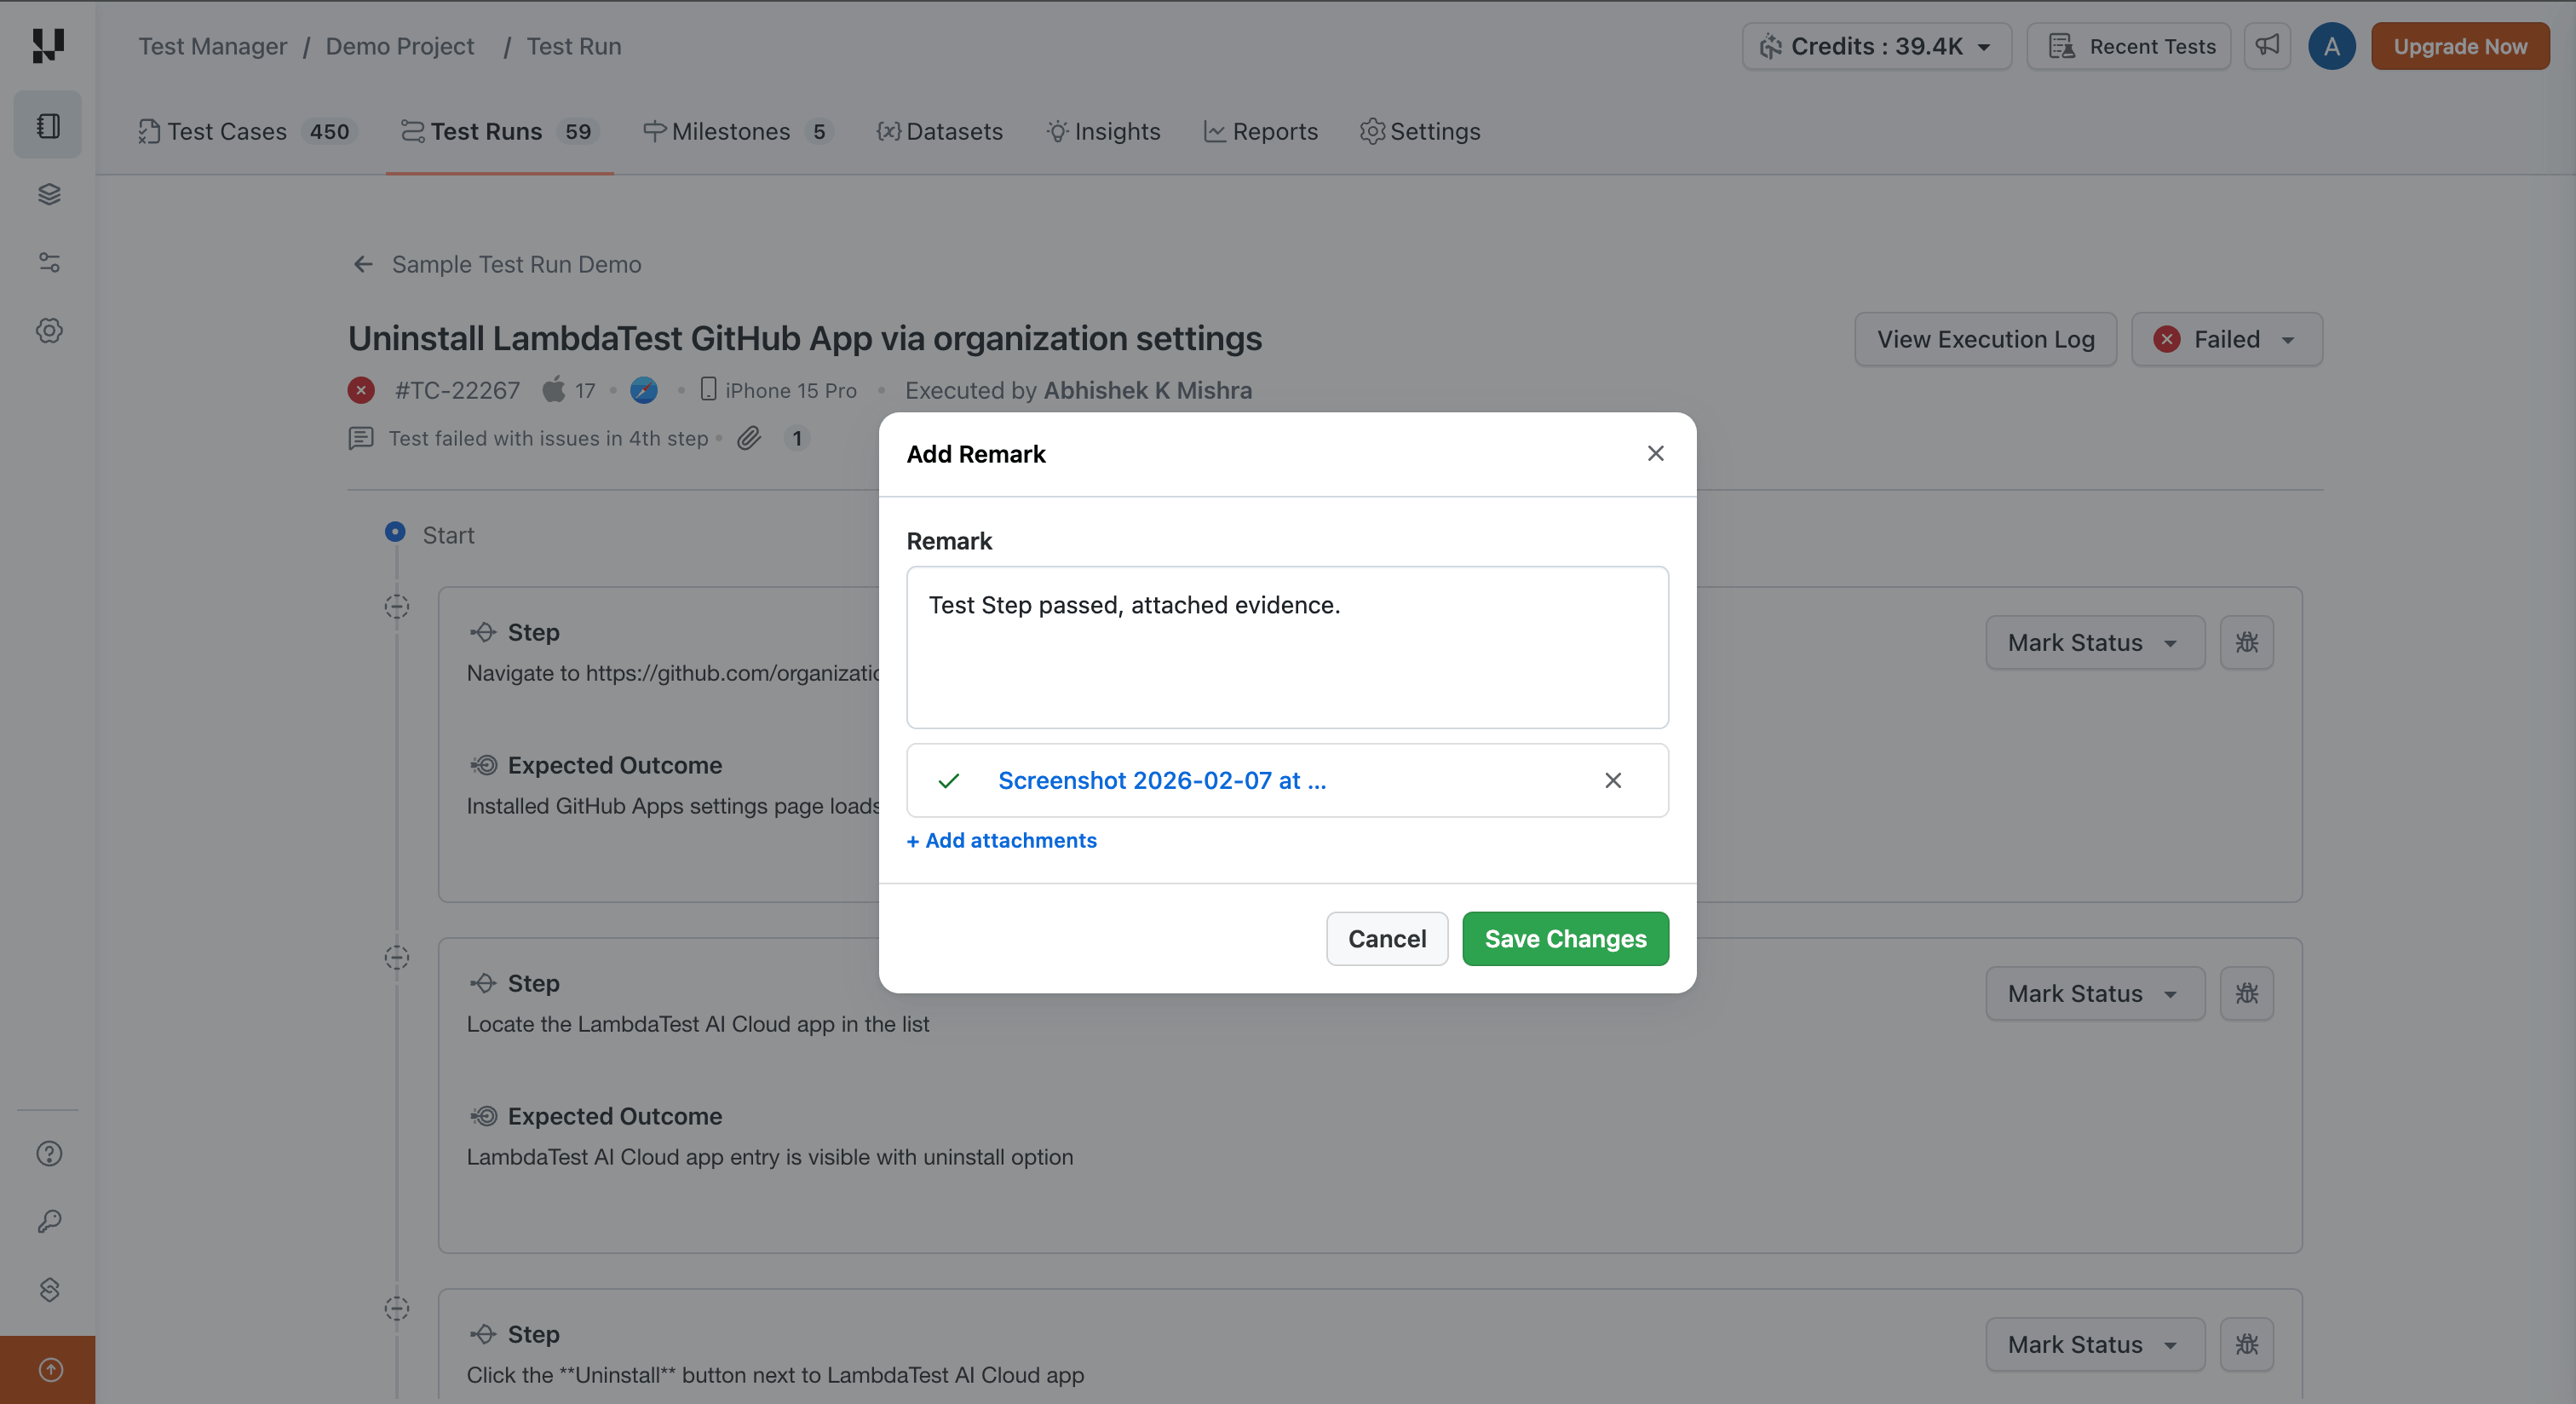
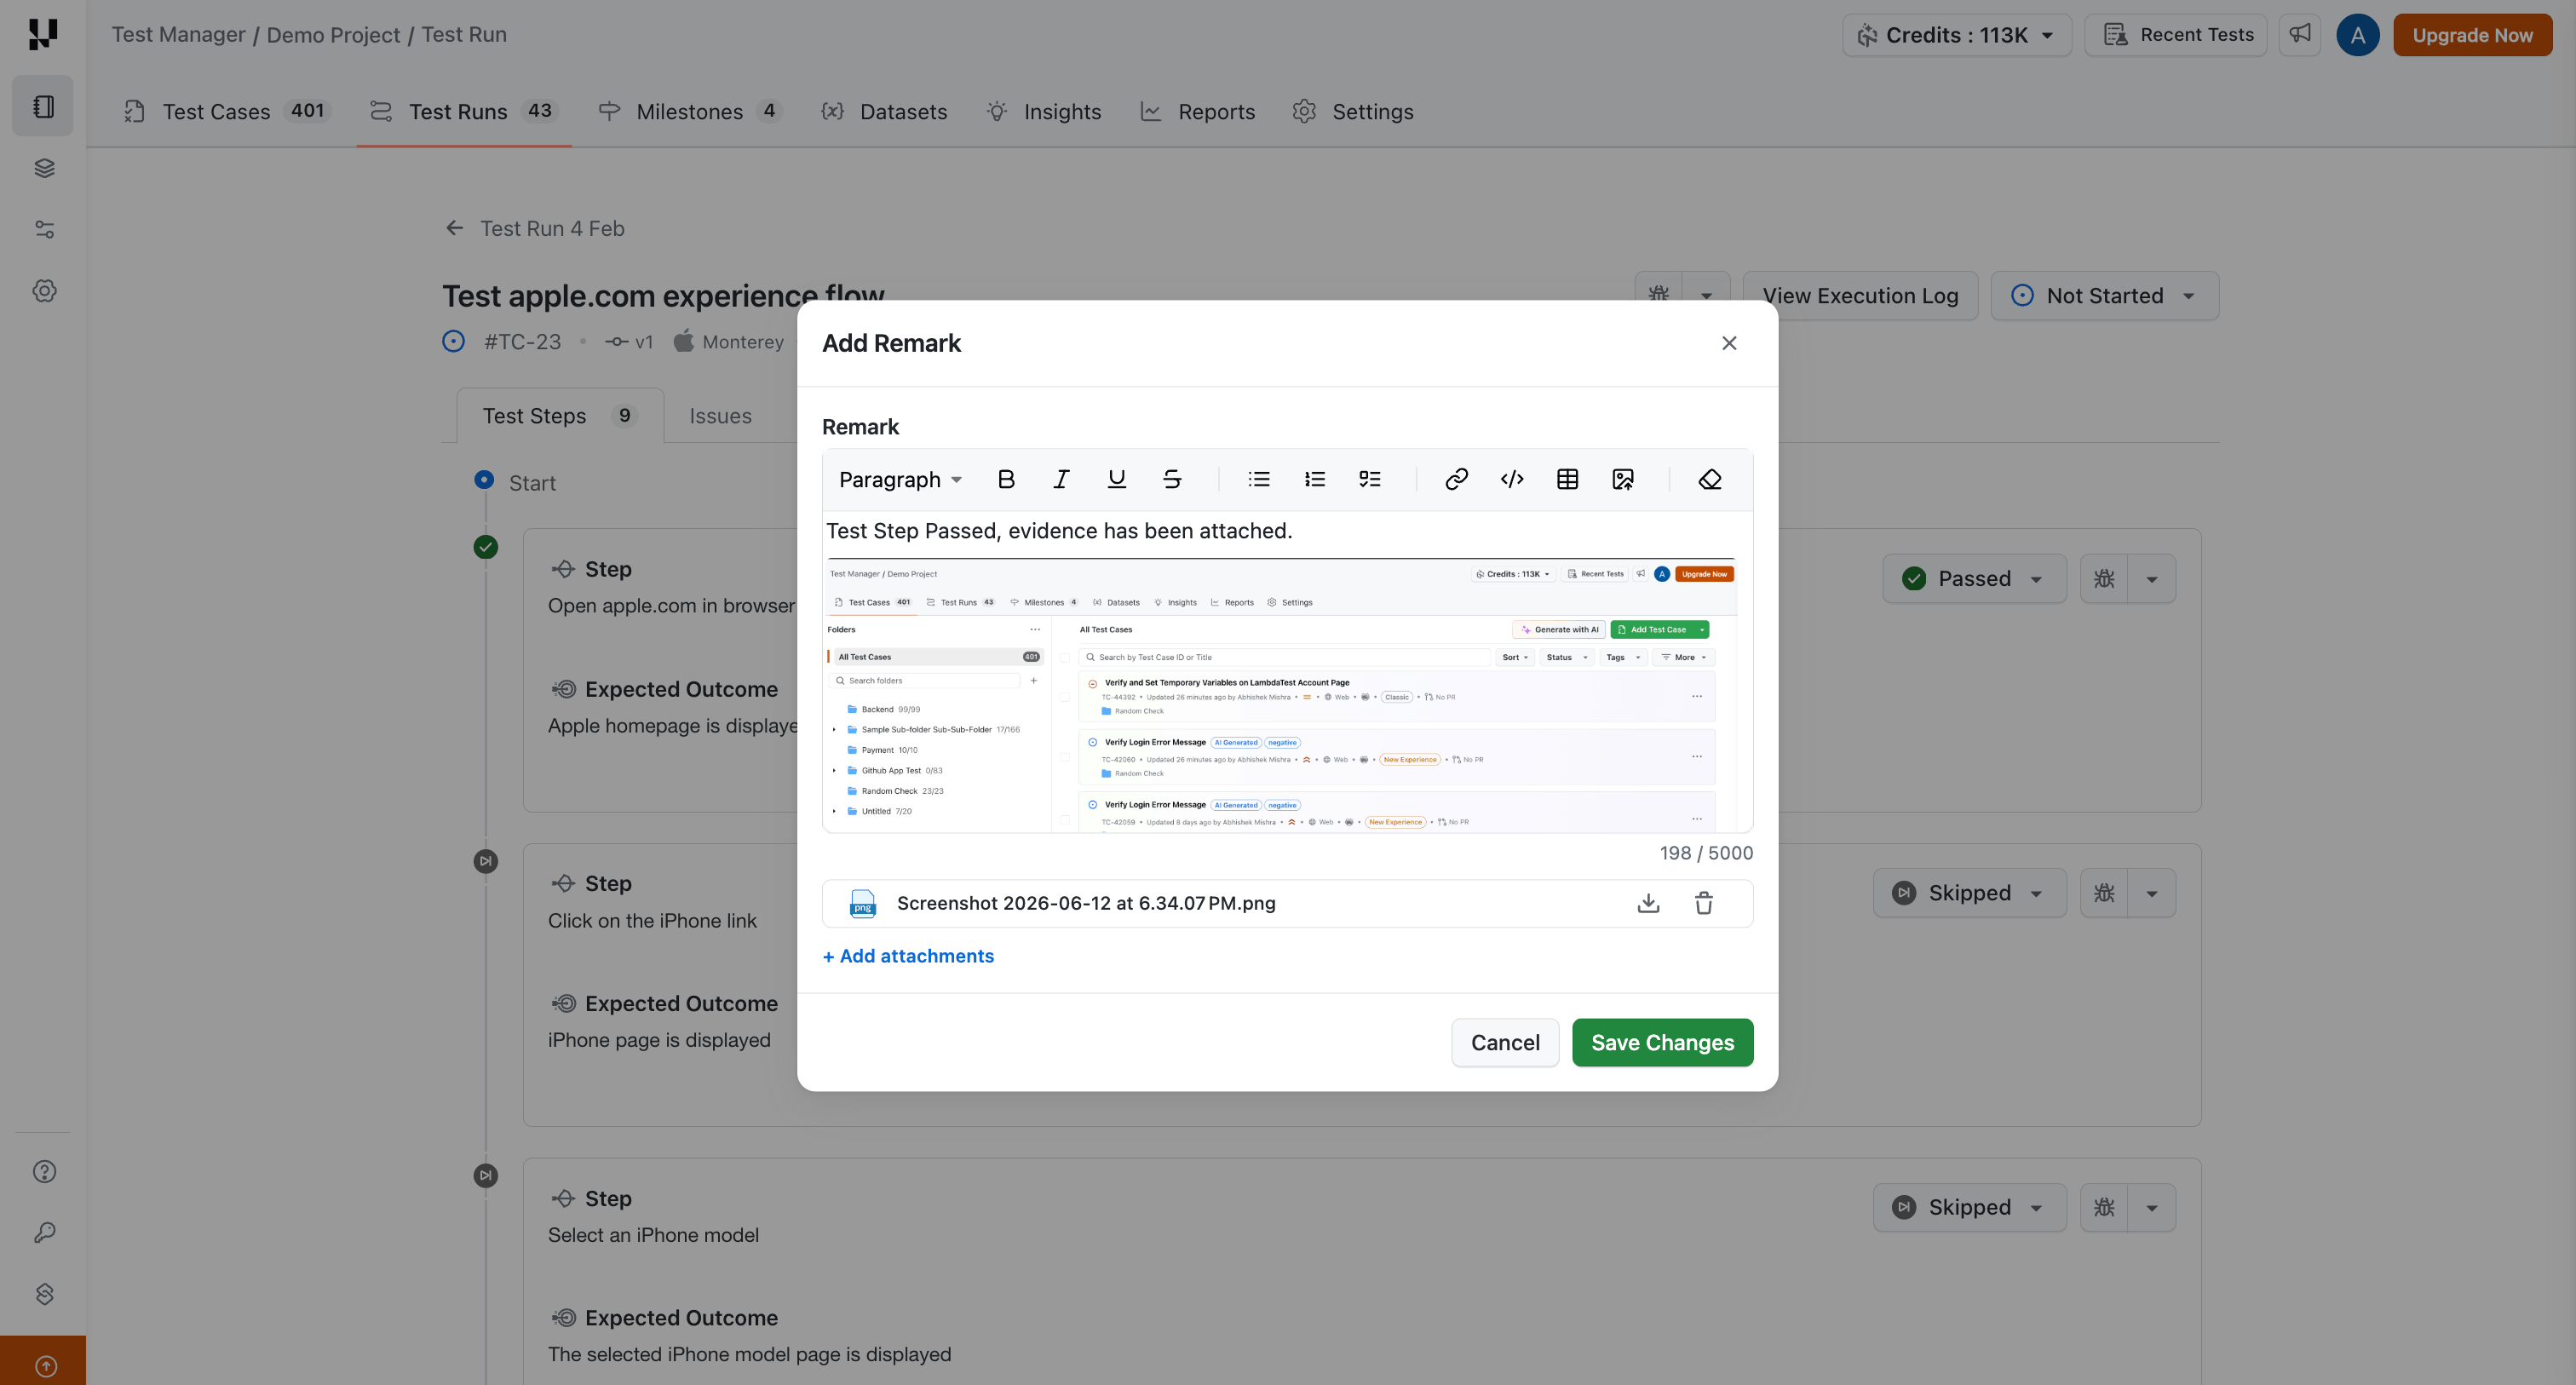
Merge pull request #3102 from AbhishekLambda/rich-fix
Rich Text editor added in Remarks - Test Manager Test Runs

Pull request: Rich Text editor added in Remarks - Test Manager Test Runs

diff --git a/docs/test-run-creation-and-management.md b/docs/test-run-creation-and-management.md
@@ -129,6 +129,14 @@ Custom Fields can be filtered only for types: **Single Select Dropdown**, **Mult
 
 <img loading="lazy" src={require('../assets/images/test-run/9.png').default} alt="Real "  className="doc_img"/>
 
+The Remark field supports **rich text formatting**, including:
+- Inline image embedding — paste images directly into the field.
+- Text styling such as bold, italic, bullet lists, and other standard rich text options.
+
+:::note
+Remarks have a maximum limit of **5000 characters**.
+:::
+
 - Attach supporting files or screenshots to the remarks for better context.
 
 <img loading="lazy" src={require('../assets/images/test-run/10.png').default} alt="Real "  className="doc_img"/>